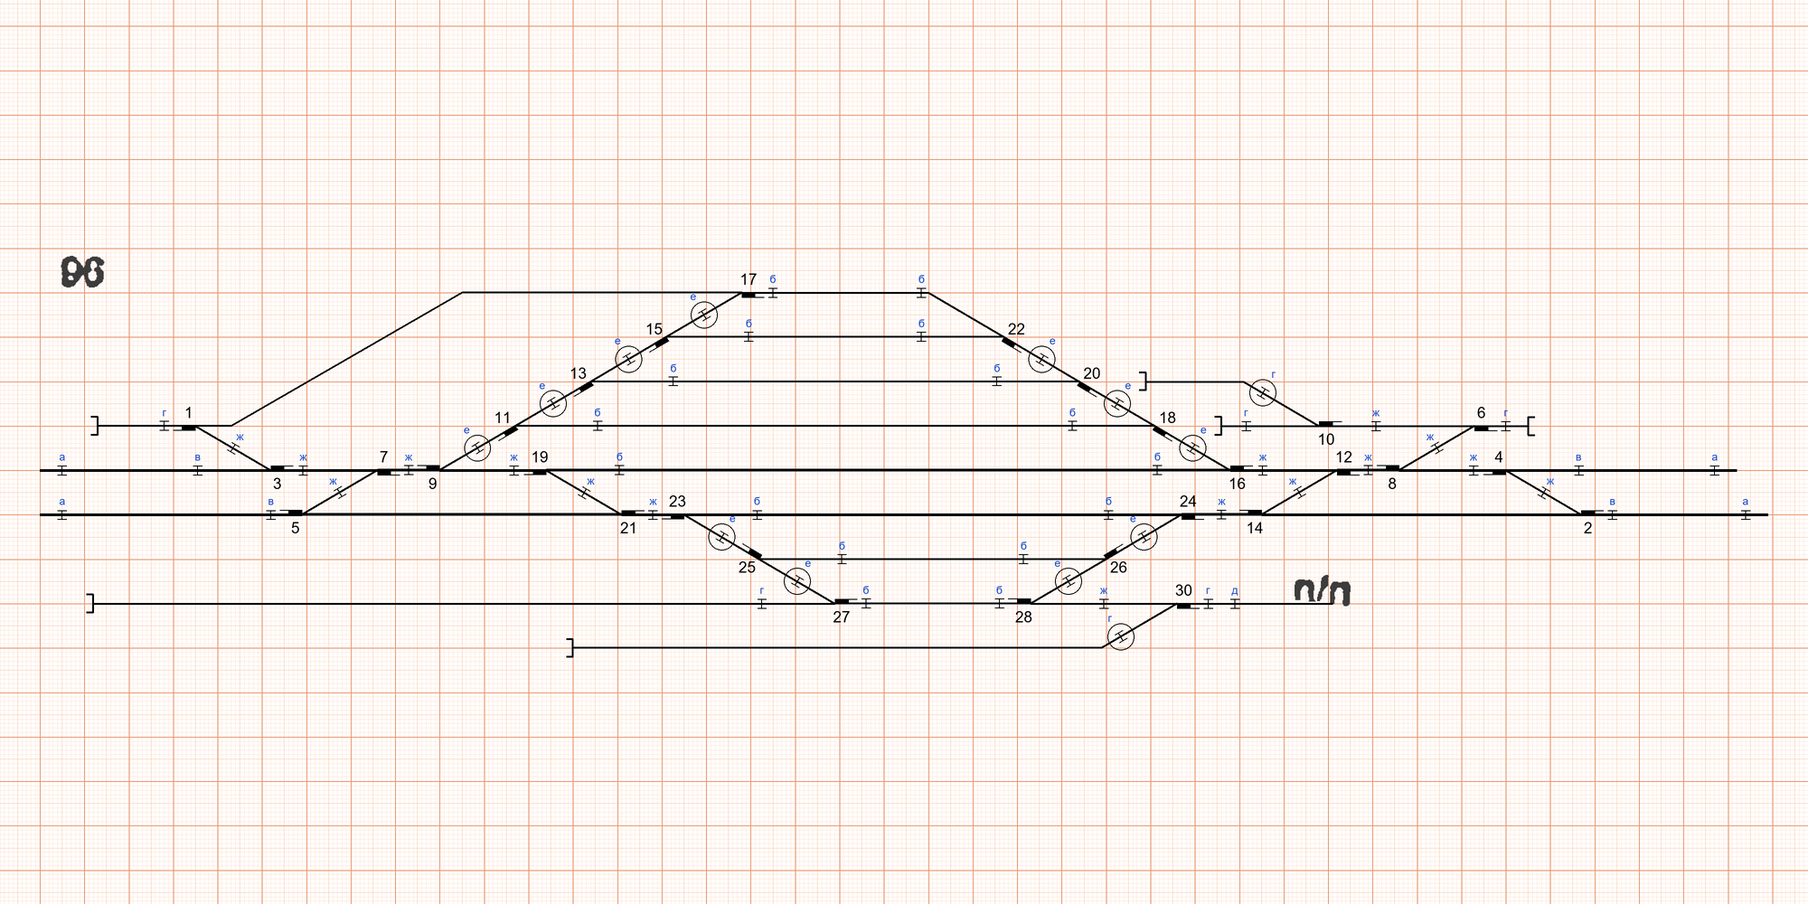
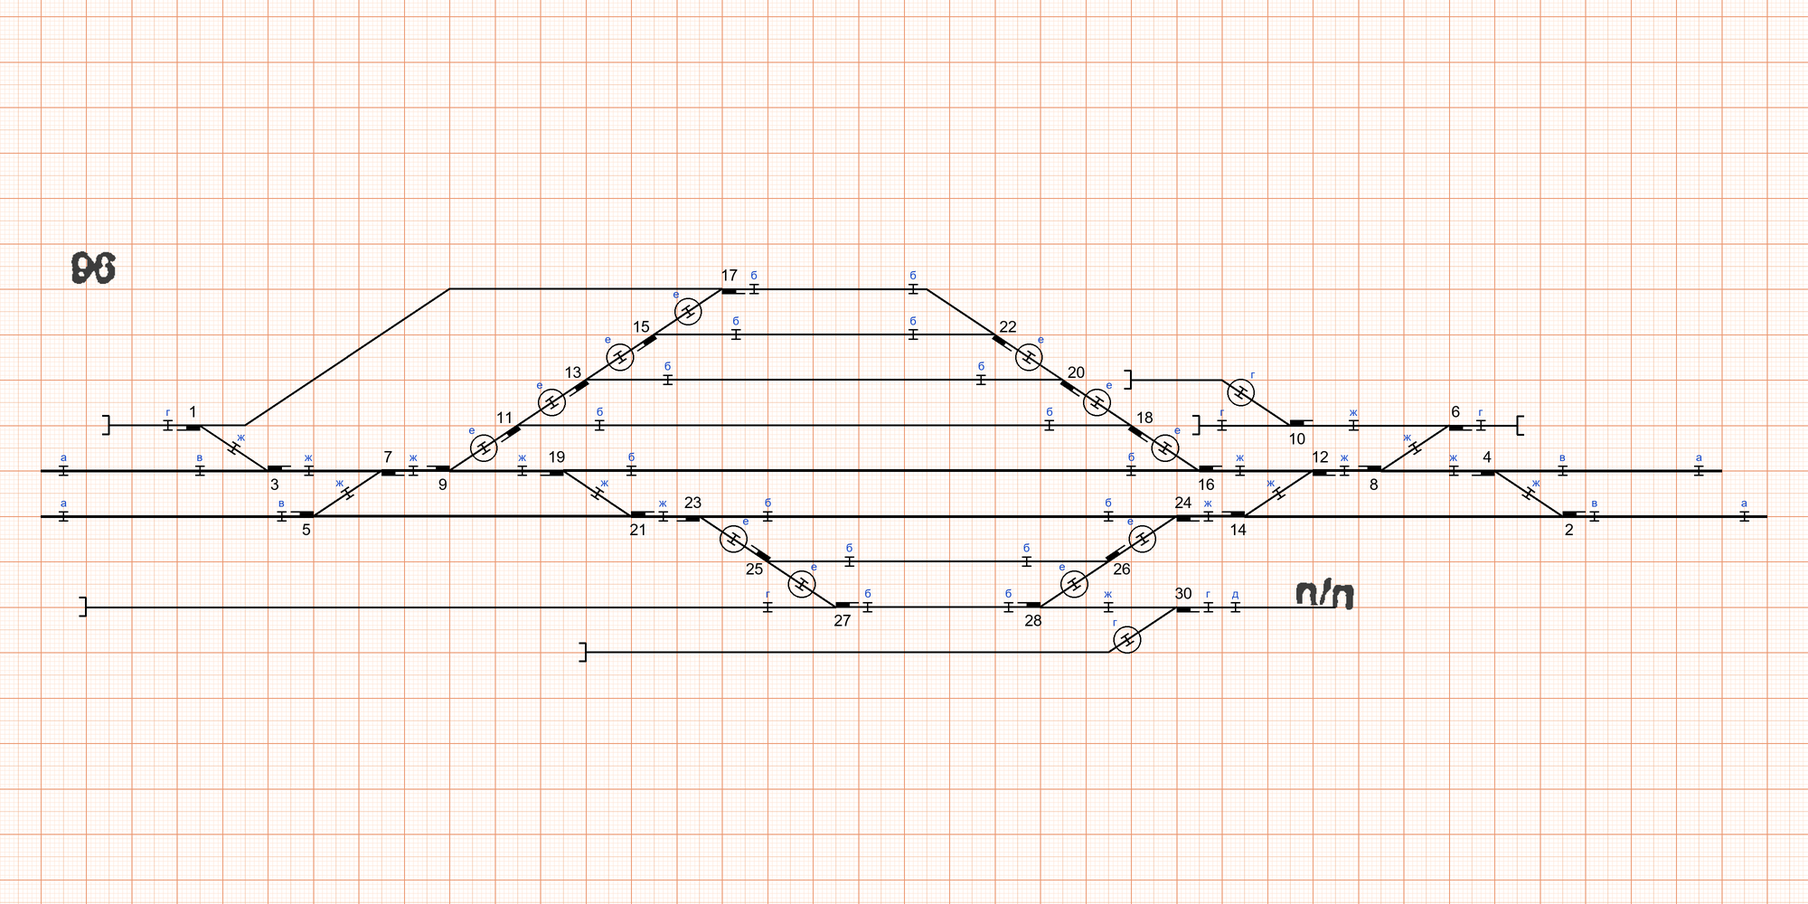
feat: update layout and rendering logic, enhance joint alignment and snapping

Changed region(s): [[0.0, 0.0, 1.0, 1.0]]

diff --git a/layout.py b/layout.py
@@ -2,9 +2,9 @@
 
 Схема перечерчивается так, как её чертили бы на миллиметровой бумаге:
   * междупутье = 1 клетка = 10 мм, все пути лежат на линиях сетки 10 мм;
-  * все диагонали (съезды, стрелочные улицы, ответвления) – под 30° (прил. 1);
-  * все узлы (стрелки, изломы, концы) – на линиях миллиметровки (целые мм),
-    поэтому проекция диагонали на 1 междупутье = 17 мм (угол 30,5°);
+  * все диагонали (съезды, стрелочные улицы, ответвления) – одного наклона:
+    10 мм по высоте на 15 мм по горизонтали (DIAG_RUN);
+  * все узлы (стрелки, изломы, концы) – на линиях миллиметровки (целые мм);
   * между элементами выдерживаются минимальные расстояния (см. ниже);
   * если стыки не помещаются, схема раздвигается по горизонтали, наклон
     диагоналей и взаимный порядок элементов при этом не меняются.
@@ -18,7 +18,7 @@ import math
 
 from graph import Annotation
 from joints import (Station, _central_edge, _find_center, _switch_geometry, analyse,
-                    place_joints)
+                    place_joints, update_negab)
 
 CELL = 10.0          # мм – междупутье
 MIN_EDGE = 5.0       # мин. длина любого горизонтального отрезка между узлами
@@ -29,6 +29,14 @@ ENTRY_ZONE = 30.0    # мин. длина участка НП/ЧП между с
 TRACK_ZONE = 30.0    # мин. длина пути станции между стыками б
 MIN_GAP = 15.0       # зазор между несвязанными отрезками на одной линии сетки
 PP_TEXT = 15.0       # место под надпись «п/п» у конца подъездного пути
+GRID_X = 5           # шаг сетки для узлов по горизонтали, мм: стрелки, повороты, концы
+                     # стоят на линиях 5 мм (диагональ 15 мм кратна 5 – оба её конца на сетке)
+
+
+def snap(v: float, up=False) -> int:
+    """Округление до линии сетки GRID_X (up=True – вверх, для минимальных длин)."""
+    q = v / GRID_X
+    return int((math.ceil(q - 1e-6) if up else round(q)) * GRID_X)
 MARGIN = 20.0        # поля листа слева/сверху
 
 
@@ -43,6 +51,7 @@ def build_station(graph, annots=()):
             break
     refresh(st)
     place_joints(st)
+    snap_joints(st)
     st.geom_check = check_geometry(st)
     new_annots = _move_annots(st, annots, orig, y0, u0)
     return st, new_annots
@@ -70,19 +79,50 @@ def to_grid(st: Station):
         for y in lv:
             row_of[y] = r
         prev = r
-    for n in g.nodes.values():
-        n.y = MARGIN + row_of[n.y] * CELL
-        n.x = round(MARGIN + (n.x - x0) / u * CELL)     # на линии сетки (1 мм)
-    # направление каждой диагонали (вправо/влево) берём с картинки,
-    # а наклон дальше задаётся строго 30° (прил. 1)
+    # направление каждой диагонали (вправо/влево) берём с картинки ДО округления
+    # (у крутых улиц отрезок между соседними стрелками короче шага сетки);
+    # у цепочки (улица, съезд) направление общее – по её концам
     st.diag_dir = {}
     for e in g.edges.values():
         na, nb = g.nodes[e.a], g.nodes[e.b]
-        if abs(na.y - nb.y) > 1e-6:
+        if abs(row_of[na.y] - row_of[nb.y]) > 0:
             st.diag_dir[e.id] = 1 if nb.x >= na.x else -1
+    for c in st.chains:
+        ns = c['nodes']
+        first, last = g.nodes[ns[0]], g.nodes[ns[-1]]
+        if row_of[first.y] == row_of[last.y]:
+            continue
+        # знак «x растёт вместе с y» для всей цепочки
+        s = 1 if (last.x - first.x) * (last.y - first.y) >= 0 else -1
+        for k in c['edges']:
+            e = g.edges[k]
+            na, nb = g.nodes[e.a], g.nodes[e.b]
+            if e.id in st.diag_dir:
+                st.diag_dir[e.id] = s if nb.y > na.y else -s
+    # а наклон дальше задаётся единый: 10 мм по высоте на 15 мм по горизонтали
+    for n in g.nodes.values():
+        n.y = MARGIN + row_of[n.y] * CELL
+        n.x = snap(MARGIN + (n.x - x0) / u * CELL)      # на линии сетки (5 мм)
     st.u = CELL
     refresh(st)
     return y0, u
+
+
+def _find_center_named(st: Station):
+    """Ось станции после компоновки: середина общего участка путей станции,
+    получивших имена при анализе (кроме главных – они идут через всю схему)."""
+    mains = {id(l) for l in st.mains}
+    named = [l for l in st.lines if 'name' in l and id(l) not in mains]
+    if not named:
+        _find_center(st)
+        return
+    lo = max(l['x0'] for l in named)
+    hi = min(l['x1'] for l in named)
+    if lo < hi:
+        st.xc = (lo + hi) / 2
+    else:
+        mids = sorted((l['x0'] + l['x1']) / 2 for l in named)
+        st.xc = mids[len(mids) // 2]
 
 
 def refresh(st: Station):
@@ -94,7 +134,7 @@ def refresh(st: Station):
         l['nodes'].sort(key=lambda n: g.nodes[n].x)
     st.sw.clear()
     _switch_geometry(st)
-    _find_center(st)
+    _find_center_named(st)
     # имена путей привязаны к рёбрам, пересекающим ось; ось могла сместиться
     names = {}
     for l in st.lines:
@@ -172,9 +212,9 @@ def relax(st: Station) -> bool:
         na, nb = g.nodes[e.a], g.nodes[e.b]
         if abs(na.y - nb.y) < 1e-6:
             a, b = (e.a, e.b) if na.x <= nb.x else (e.b, e.a)
-            cons.append((a, b, math.ceil(_required(st, e) - 1e-6)))
+            cons.append((a, b, snap(_required(st, e), up=True)))
         else:
-            d = diag_dx(st, e)                  # строго 30° к горизонтали
+            d = diag_dx(st, e)                  # единый наклон 10:15
             cons.append((e.a, e.b, d))
             rev.append((e.b, e.a, -d))
     # на одной линии сетки несвязанные отрезки не должны наезжать друг на друга
@@ -186,7 +226,7 @@ def relax(st: Station) -> bool:
         ids.sort(key=lambda n: g.nodes[n].x)
         for a, b in zip(ids, ids[1:]):
             if frozenset((a, b)) not in linked:
-                cons.append((a, b, MIN_GAP))
+                cons.append((a, b, snap(MIN_GAP, up=True)))
     ok = _solve(x, cons + rev, len(x))
     st.slope_ok = ok
     if not ok:                                  # цикл (напр., перекрёстный съезд) –
@@ -194,21 +234,62 @@ def relax(st: Station) -> bool:
         _solve(x, cons, len(x))
     moved = max(abs(x[n] - g.nodes[n].x) for n in x) if x else 0
     for n in x:
-        g.nodes[n].x = round(x[n])              # все узлы – на линиях миллиметровки
+        g.nodes[n].x = snap(x[n])               # все узлы – на линиях сетки 5 мм
     if moved > 0.25:
         refresh(st)
     return moved > 0.25
 
 
-SLOPE = 1 / math.tan(math.radians(30))     # √3: горизонталь на 1 мм подъёма
+DIAG_RUN = 15.0      # мм по горизонтали на одно междупутье (10 мм по высоте)
+SLOPE = DIAG_RUN / CELL
+DIAG_ANGLE = math.degrees(math.atan2(CELL, DIAG_RUN))
 
 
 def diag_dx(st: Station, e) -> int:
-    """Горизонтальная проекция диагонали под 30°, округлённая до целого мм
-    (узлы – на линиях сетки): 1 междупутье (10 мм) -> 17 мм, 2 -> 35 мм, 3 -> 52 мм."""
+    """Горизонтальная проекция диагонали: на 10 мм по высоте – 15 мм по горизонтали
+    (1 междупутье -> 15 мм, 2 -> 30 мм, 3 -> 45 мм), узлы остаются на линиях сетки."""
     g = st.g
     dy = abs(g.nodes[e.b].y - g.nodes[e.a].y)
     return st.diag_dir.get(e.id, 1) * round(SLOPE * dy)
+
+
+def snap_joints(st: Station):
+    """Стыки на горизонтальных путях – на целые миллиметры (линии миллиметровки)."""
+    g = st.g
+    update_negab(st)
+    for j in st.joints:
+        e = g.edges[j.edge]
+        (ax, ay), (bx, by) = g.pos(e.a), g.pos(e.b)
+        if abs(ay - by) > 1e-6:
+            continue
+        L = g.length(e)
+        x0 = ax + (bx - ax) * j.t / L
+        was_negab, t_old = j.negab, j.t
+        # ближайшее целое, затем другое – если округление сделало стык негабаритным
+        for x in sorted({math.floor(x0), math.ceil(x0)}, key=lambda v: abs(v - x0)):
+            t = abs(x - ax)
+            if not 0.5 < t < L - 0.5:
+                continue
+            j.t = t
+            update_negab(st, [j])
+            if j.negab <= was_negab:
+                break
+        else:
+            j.t = t_old
+            update_negab(st, [j])
+    # стыки в конце стрелочной улицы – строго под стыком соседнего пути
+    for j in st.joints:
+        j2 = getattr(j, 'align_to', None)
+        if j2 is None:
+            continue
+        e = g.edges[j.edge]
+        ax, bx = g.nodes[e.a].x, g.nodes[e.b].x
+        x = g.point_on(g.edges[j2.edge], j2.t)[0]
+        L = g.length(e)
+        t = (x - ax) / (bx - ax) * L if bx != ax else j.t
+        if 0.5 < t < L - 0.5:
+            j.t = t
+    update_negab(st)
 
 
 def check_geometry(st: Station):
@@ -220,10 +301,10 @@ def check_geometry(st: Station):
         dy = abs(nb.y - na.y)
         if dy > 1e-6:
             ang = math.degrees(math.atan2(dy, abs(nb.x - na.x)))
-            if abs(ang - 30) > 1.0:
+            if abs(ang - DIAG_ANGLE) > 0.5:
                 bad_angle.append(round(ang, 1))
     for n in g.nodes.values():
-        if abs(n.x - round(n.x)) > 1e-6 or abs(n.y - round(n.y)) > 1e-6:
+        if abs(n.x % GRID_X) > 1e-6 or abs(n.y % CELL) > 1e-6:
             off_grid.append(n.id)
     return bad_angle, off_grid
 

diff --git a/app.py b/app.py
@@ -95,8 +95,8 @@ class App(tk.Tk):
         self.status = tk.StringVar(value='Откройте картинку со схемой станции (jpg/png).')
         ttk.Label(self, textvariable=self.status, anchor='w', padding=3).pack(side='bottom', fill='x')
 
-        for c in (self.cv, self.cv_src):
-            c.bind('<Configure>', lambda e: self.schedule_redraw())
+        self.cv.bind('<Configure>', lambda e: self.schedule_redraw())
+        self.cv_src.bind('<Configure>', lambda e: self.after_idle(self.redraw_src))
         self.cv.bind('<Button-1>', self.on_click)
         self.cv.bind('<Button-3>', self.on_right)
         self.cv.bind('<Motion>', self.on_motion)
@@ -150,6 +150,7 @@ class App(tk.Tk):
         self.status.set(f'Готово: узлов {len(g.nodes)}, рёбер {len(g.edges)}, стрелок {len(st.sw)}, '
                         f'стыков {len(st.joints)}. Наклон фото исправлен на {info["angle"]:.1f}°.')
         self.update_report()
+        self.redraw_src()
         self.redraw()
 
     def recompute(self):
@@ -214,7 +215,7 @@ class App(tk.Tk):
         nk = min(max(k * factor, kfit * 0.5), kfit * 60)
         f = nk / k
         self.view = (nk, sx - (sx - ox) * f, sy - (sy - oy) * f)
-        self.schedule_redraw()
+        self._preview()
 
     def zoom_center(self, factor):
         self.zoom_at(self.cv.winfo_width() / 2, self.cv.winfo_height() / 2, factor)
@@ -228,35 +229,74 @@ class App(tk.Tk):
 
     def pan_start(self, ev):
         if self.transform:
-            self._pan = (ev.x, ev.y, *self.transform)
+            self._pan = [ev.x, ev.y]
             self.cv.configure(cursor='fleur')
 
     def pan_move(self, ev):
-        if not self._pan:
+        """Перетаскивание: просто сдвигаем готовую картинку на холсте (без перерисовки),
+        чёткая перерисовка с дорисовкой краёв – когда мышь остановится."""
+        if not self._pan or not self.transform:
             return
-        x0, y0, k, ox, oy = self._pan
-        self.view = (k, ox + ev.x - x0, oy + ev.y - y0)
-        self.schedule_redraw()
+        dx, dy = ev.x - self._pan[0], ev.y - self._pan[1]
+        self._pan = [ev.x, ev.y]
+        k, ox, oy = self.transform
+        self.view = self.transform = (k, ox + dx, oy + dy)
+        self.cv.move(self._img_item, dx, dy)
+        self._schedule_sharp(120)
+
+    def redraw_src(self):
+        if self.src_img is None:
+            return
+        w, h = max(10, self.cv_src.winfo_width()), max(10, self.cv_src.winfo_height())
+        iw, ih = self.src_img.size
+        k = min(w / iw, h / ih)
+        im = self.src_img.resize((max(1, int(iw * k)), max(1, int(ih * k))), Image.LANCZOS)
+        self._tk_imgs['src'] = ImageTk.PhotoImage(im)
+        self.cv_src.delete('all')
+        self.cv_src.create_image(w // 2, h // 2, image=self._tk_imgs['src'])
 
     def redraw(self, highlight=None):
+        """Полная (чёткая) перерисовка схемы."""
         self._redraw_job = None
-        # исходник
-        if self.src_img is not None:
-            w, h = max(10, self.cv_src.winfo_width()), max(10, self.cv_src.winfo_height())
-            iw, ih = self.src_img.size
-            k = min(w / iw, h / ih)
-            im = self.src_img.resize((max(1, int(iw * k)), max(1, int(ih * k))), Image.LANCZOS)
-            self._tk_imgs['src'] = ImageTk.PhotoImage(im)
-            self.cv_src.delete('all')
-            self.cv_src.create_image(w // 2, h // 2, image=self._tk_imgs['src'])
-        # схема
-        if self.st is not None:
-            w, h = max(10, self.cv.winfo_width()), max(10, self.cv.winfo_height())
-            img, self.transform = self._render((w, h), highlight, self.view)
-            self._tk_imgs['res'] = ImageTk.PhotoImage(img)
-            self.cv.delete('all')
-            self.cv.create_image(0, 0, anchor='nw', image=self._tk_imgs['res'])
-            self.zoom_lbl.configure(text=f'{self.transform[0] / self._fit()[0] * 100:.0f}%')
+        if self.st is None:
+            return
+        w, h = max(10, self.cv.winfo_width()), max(10, self.cv.winfo_height())
+        img, self.transform = self._render((w, h), highlight, self.view)
+        self._base = (img, self.transform)
+        self._show(img)
+        self.zoom_lbl.configure(text=f'{self.transform[0] / self._fit()[0] * 100:.0f}%')
+
+    def _show(self, img):
+        """Вывести картинку на холст (переиспользуя PhotoImage – это быстрее)."""
+        ph = self._tk_imgs.get('res')
+        if ph is not None and (ph.width(), ph.height()) == img.size:
+            ph.paste(img)
+        else:
+            self._tk_imgs['res'] = ph = ImageTk.PhotoImage(img)
+        self.cv.delete('all')
+        self._img_item = self.cv.create_image(0, 0, anchor='nw', image=ph)
+
+    def _preview(self):
+        """Мгновенный предпросмотр при зуме: масштабируем уже готовую картинку,
+        чёткая перерисовка – когда колесо остановится."""
+        base = getattr(self, '_base', None)
+        if base is None:
+            return
+        img, (k0, ox0, oy0) = base
+        k, ox, oy = self.view
+        f = k / k0
+        dx, dy = ox - ox0 * f, oy - oy0 * f
+        prev = img.transform(img.size, Image.AFFINE, (1 / f, 0, -dx / f, 0, 1 / f, -dy / f),
+                             resample=Image.BILINEAR, fillcolor='white')
+        self.transform = self.view
+        self._show(prev)
+        self.zoom_lbl.configure(text=f'{k / self._fit()[0] * 100:.0f}%')
+        self._schedule_sharp()
+
+    def _schedule_sharp(self, delay=140):
+        if self._redraw_job:
+            self.after_cancel(self._redraw_job)
+        self._redraw_job = self.after(delay, self.redraw)
 
     # ----------------------------------------------------------- мышь
     def _to_model(self, ev):

diff --git a/joints.py b/joints.py
@@ -262,16 +262,16 @@ def _central_edge(st: Station, line):
     ось его не пересекает (после раздвижки) – самый длинный отрезок между
     стрелками/изломами этого пути."""
     g = st.g
+    # путь станции: средняя часть запомнена при анализе исходной картинки
+    # (там ось станции надёжна); компоновка топологию не меняет – ребро то же
+    if line.get('central') in g.edges:
+        return g.edges[line['central']]
     for k in line['edges']:
         e = g.edges[k]
         xa, xb = sorted((g.nodes[e.a].x, g.nodes[e.b].x))
         if xa <= st.xc <= xb:
             return e
-    if 'name' not in line:
-        return None
-    inner = [g.edges[k] for k in line['edges']
-             if g.degree(g.edges[k].a) >= 2 and g.degree(g.edges[k].b) >= 2]
-    return max(inner, key=g.length, default=None)
+    return None
 
 
 def _name_tracks(st: Station):
@@ -297,6 +297,7 @@ def _name_tracks(st: Station):
             e = _central_edge(st, l)
             if e:
                 st.track_names[e.id] = names[id(l)]
+                l['central'] = e.id
             l['name'] = names[id(l)]
     # входные светофоры: слева нечётная горловина (Н), справа чётная (Ч)
     for l in st.mains:
@@ -584,6 +585,7 @@ def _align_ladder_ends(st: Station, b_at):
         t = (x_target - ax) / (bx - ax) * L if bx != ax else j.t
         if 0.5 < t < L - 0.5:                   # хоть 1 мм от излома – но строго под соседним
             j.t = t
+            j.align_to = j2                     # держать ординату и после округления
             j.anchor = (bend, t if e.a == bend else L - t)
 
 
@@ -775,7 +777,7 @@ def report(st: Station) -> str:
         chk = getattr(st, 'geom_check', None)
         if chk is not None:
             bad, off = chk
-            out.append('Проверка чертежа: диагонали под 30° – '
+            out.append('Проверка чертежа: диагонали 10 мм по высоте на 15 мм по горизонтали – '
                        + ('все' if not bad else f'НЕ все ({len(bad)}: {bad})')
                        + '; узлы на линиях сетки – ' + ('все' if not off else f'НЕ все ({len(off)})'))
     out.append('')

diff --git a/render.py b/render.py
@@ -97,7 +97,7 @@ def render(st: Station, size, *, show_joints=True, show_letters=True,
         mx0, mx1 = -ox / k, (W - ox) / k
         my0, my1 = -oy / k, (H - oy) / k
         steps = [(1, (253, 228, 212), 1)] if mm >= 5 else []
-        steps += [(5, (248, 200, 170), 1), (10, (235, 150, 110), max(1, ss))]
+        steps += [(5, (242, 182, 145), 1), (10, (235, 150, 110), max(1, ss))]
         for step, col, w in steps:
             for i in range(math.floor(mx0 / step), math.ceil(mx1 / step) + 1):
                 if step < 10 and (i * step) % (10 if step == 5 else 5) == 0:
